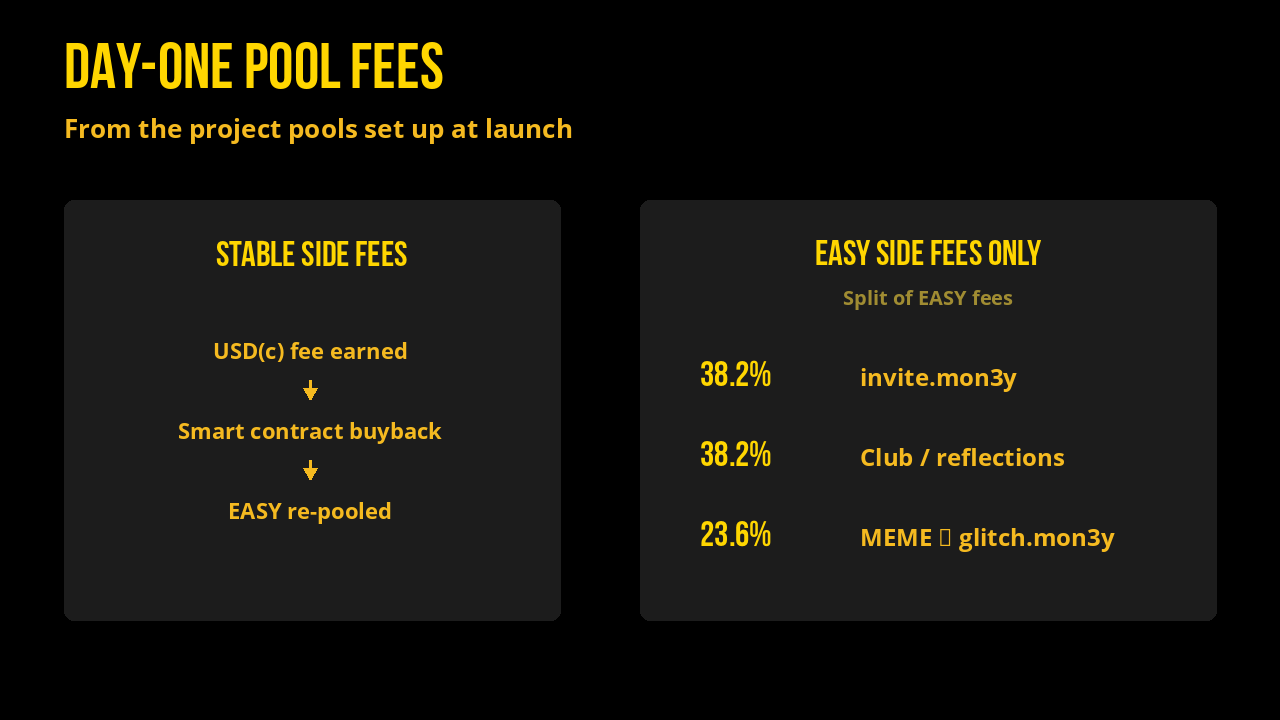
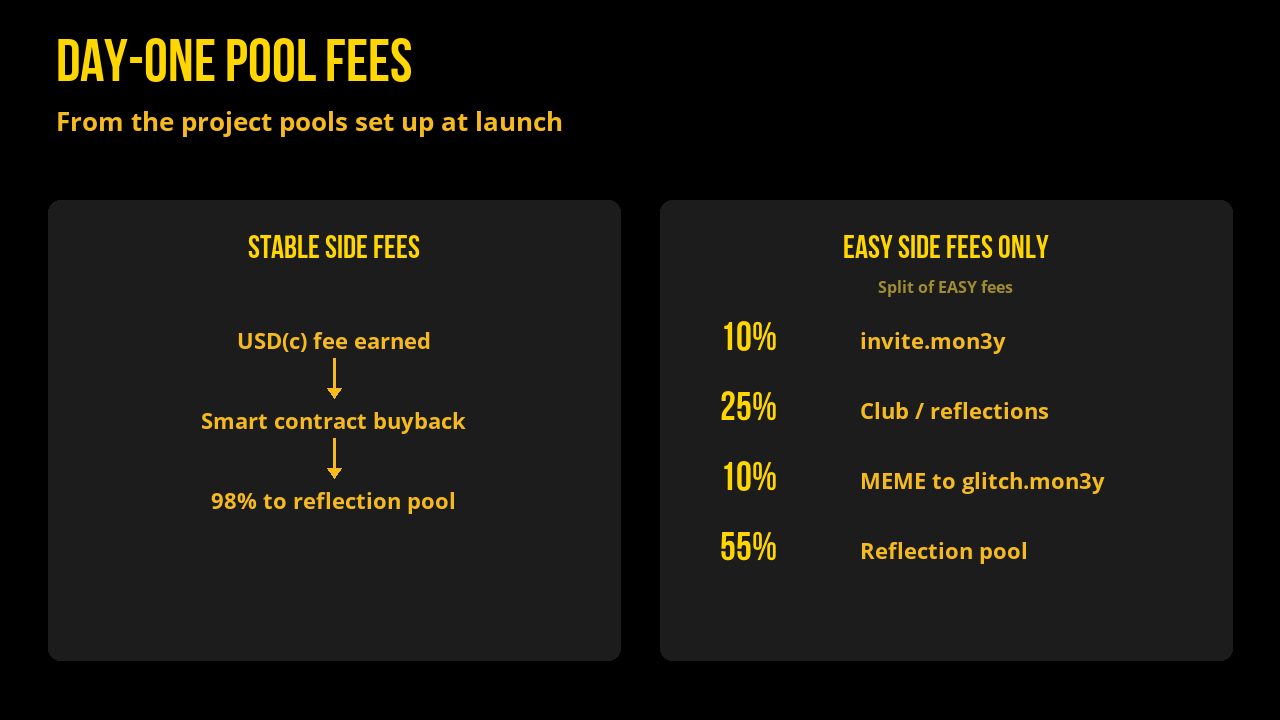
Updated Game Guide + Buyback results

diff --git a/core-tech/liquidity-and-farms.md b/core-tech/liquidity-and-farms.md
@@ -2,14 +2,51 @@
 
 ![Liquidity & Farms](../assets/heroes/liquidity-farms.png)
 
-Day-one EASY sat in five locked stable pools. Extra books (XPR, XXRP, METAL, XBTC, and others) sit on Alcor. Prefer **1% fee** pools when you LP. Opt out of tax on the LP account first so deposits and exits are not hit with 2%.
+Day-one EASY sat in five date-locked stable pools. The October 24, 2026 Venus window cleared EASY / XMD and moved that liquidity. The other four project pools stay locked. Extra books (XPR, XXRP, METAL, XBTC, and others) sit on Alcor. Prefer **1% fee** pools when you LP. Opt out of tax on the LP account first so deposits and exits are not hit with 2%.
 
 ![Liquidity fee flow](../assets/diagrams/liquidity-fee-flow.png)
+
+`hands.mon3y` routes pool fees. Stable-side fees buy EASY, and **98%** of the EASY that comes back joins the reflection pool. EASY-side fees split **10%** Welcome ([`invite.mon3y`](https://explorer.xprnetwork.org/account/invite.mon3y)), **25%** Contributors Club (`reflections`), **10%** MEME buyback into locked [`glitch.mon3y`](https://explorer.xprnetwork.org/account/glitch.mon3y) through [EASY / MEME 6990](https://alcor.exchange/v/xpr/analytics/pools/6990), and **55%** to the reflection pool on `mon3y`. See [Tokenomics](../tokenomics.md).
 
 Liquidity positions are managed within the `reflections` account and go back to the rewards pool. View them on Alcor anytime by searching `reflections`.
 
 Additionally, `m3m3` feeds the `reflections` account with their earned LP fees.
 
-Pool-fee split applies to **EASY-side fees only**: **38.2%** Welcome ([`invite.mon3y`](https://explorer.xprnetwork.org/account/invite.mon3y)), **38.2%** Contributors Club (`reflections`), **23.6%** MEME buyback into locked [`glitch.mon3y`](https://explorer.xprnetwork.org/account/glitch.mon3y). See [Tokenomics](../tokenomics.md).
-
 Farms: [alcor.exchange/v/xpr/analytics?tab=farms](https://alcor.exchange/v/xpr/analytics?tab=farms)
+
+## October 24, 2026 window
+
+That buyback was used to position into new Alcor wraps, USDC and USDT (`wrap.alcor`). EASY in the pools was reallocated.
+
+| Book | Fee | Range | Share |
+| --- | ---: | --- | ---: |
+| [XMD / EASY](https://alcor.exchange/v/xpr/analytics/pools/4067) | 0.05% | ceiling stays $100,000 | 70% |
+| [XMD / EASY](https://alcor.exchange/v/xpr/analytics/pools/8936) | 1% | up to $1 | 10% |
+| [USDC / EASY](https://alcor.exchange/v/xpr/analytics/pools/11807) | 1% | up to $1 | 10% |
+| [USDT / EASY](https://alcor.exchange/v/xpr/analytics/pools/11808) | 1% | up to $1 | 10% |
+
+**800,000 EASY** was bought back.
+
+- **400,000** bridged to Solana LP
+
+<details>
+<summary>SOL · USDC · ORE · JUP · PUMP · RAY · ORCA · JLP</summary>
+
+[SOL](https://www.orca.so/pools/Cakez96K8yJxxNhVJDkHzsQXPQXZghAWmvSPomchipaY) 2% · [USDC](https://www.orca.so/pools/9hCeJAcU1ipEfGdabuFLfJJuSFHUeAU1Wcde8ZB1188y) 1% · [ORE](https://www.orca.so/pools/GHjNT3YvMkHSbLF7mfpXnM5t9ezmPtTr6pd1rn1uSCe5) 2% · [JUP](https://www.orca.so/pools/DDMMX1LjdDN7w2fk9Mmp57yMsRbff3moxrk7YMB6tH3z) 2% · [PUMP](https://www.orca.so/pools/AEpxeLXuqRN2ZxuAkjqfSZAZPAtCQwLPEezJ1LJh313n) 2% · [RAY](https://www.orca.so/pools/Duz3wt3ergkT2UtT52kPX3U4DWXwkD18DAjJv2GacvBv) 1% · [ORCA](https://www.orca.so/pools/7M2WtZ2B4xE8erpZQfAp5agokPp2uQnfAnkcXQmfD96N) 2% · [JLP](https://www.orca.so/pools/GcsREfXYHUV6oNbPpinvC7BGcEfGuzFJHAXiURUiJ53H) 2%, on Orca.
+
+</details>
+
+- **100,000** LP on Telos for bridged network tokens
+
+<details>
+<summary>TLOS · XPR · ETH · BNB · POL · USDC · USDT · A · SEEDS</summary>
+
+[TLOS](https://alcor.exchange/v/telos/analytics/pools/126) · [XPR](https://alcor.exchange/v/telos/analytics/pools/129) · [ETH](https://alcor.exchange/v/telos/analytics/pools/132) · [BNB](https://alcor.exchange/v/telos/analytics/pools/128) · [POL](https://alcor.exchange/v/telos/analytics/pools/127) · [USDC](https://alcor.exchange/v/telos/analytics/pools/124) · [USDT](https://alcor.exchange/v/telos/analytics/pools/131) · [A](https://alcor.exchange/v/telos/analytics/pools/133) · [SEEDS](https://alcor.exchange/v/telos/analytics/pools/134). XPR, ETH, BNB, POL, USDC, USDT, and A are `wrap.alcor`. TLOS is native. SEEDS is `token.seeds`.
+
+</details>
+
+- **10,000** LP with [MEME](https://alcor.exchange/v/xpr/analytics/pools/6990)
+- **90,000** LP with [XPR](https://alcor.exchange/v/xpr/analytics/pools/4512)
+- **200,000** reserved for Flexdex, the Invite program, grassroots movements, and Flex Launcher. Final distribution TBD.
+
+Remaining lock dates: [Celestial Buybacks](../celestial-buybacks.md).

diff --git a/tokenomics.md b/tokenomics.md
@@ -37,11 +37,12 @@ Swap fees on those pools are typically 0.05%-1%.
 
 **How those fees are used**
 
-- **Stablecoin-side fees** → smart contract buys EASY → re-pooled (more redeemable depth)
-- **EASY-side fees only**
-  - **38.2%** → [`invite.mon3y`](https://explorer.xprnetwork.org/account/invite.mon3y) (Welcome)
-  - **38.2%** → Contributor Club (`reflections`)
-  - **23.6%** → MEME buyback into locked [`glitch.mon3y`](https://explorer.xprnetwork.org/account/glitch.mon3y)
+- **Stablecoin-side fees** → smart contract buys EASY → **98%** joins the reflection pool
+- **EASY-side fees**
+  - **10%** → [`invite.mon3y`](https://explorer.xprnetwork.org/account/invite.mon3y) (Welcome)
+  - **25%** → Contributor Club (`reflections`)
+  - **10%** → MEME buyback into locked [`glitch.mon3y`](https://explorer.xprnetwork.org/account/glitch.mon3y)
+  - **55%** → reflection pool on `mon3y`
 
 ![Pool fee flow](assets/diagrams/pool-fee-flow.png)
 

diff --git a/maximizing-your-easy.md b/maximizing-your-easy.md
@@ -4,7 +4,7 @@
 
 ## Provide liquidity
 
-Prefer **1% fee** EASY pools. Higher fee on busy books feeds Welcome, Club, and MEME buybacks.
+Prefer **1% fee** EASY pools. Higher fee on busy books feeds Welcome, Club, MEME buybacks, and the reflection pool.
 
 Example (moves with volume): [EASY/XPR](https://alcor.exchange/v/xpr/analytics/pools/4512) · 1% fee · recent ≈14% fee APY (≈$890/day on ≈$24k TVL).
 
@@ -50,4 +50,4 @@ Once welcomed, welcome the next person. Grow the tree. Claim forever.
 | Share links | Welcome → Telegram / WhatsApp / X / email / text |
 | View network | Welcome → View welcome network |
 
-**38.2%** of EASY-side pool fees fund `invite.mon3y`.
+**10%** of EASY-side pool fees fund `invite.mon3y`.
